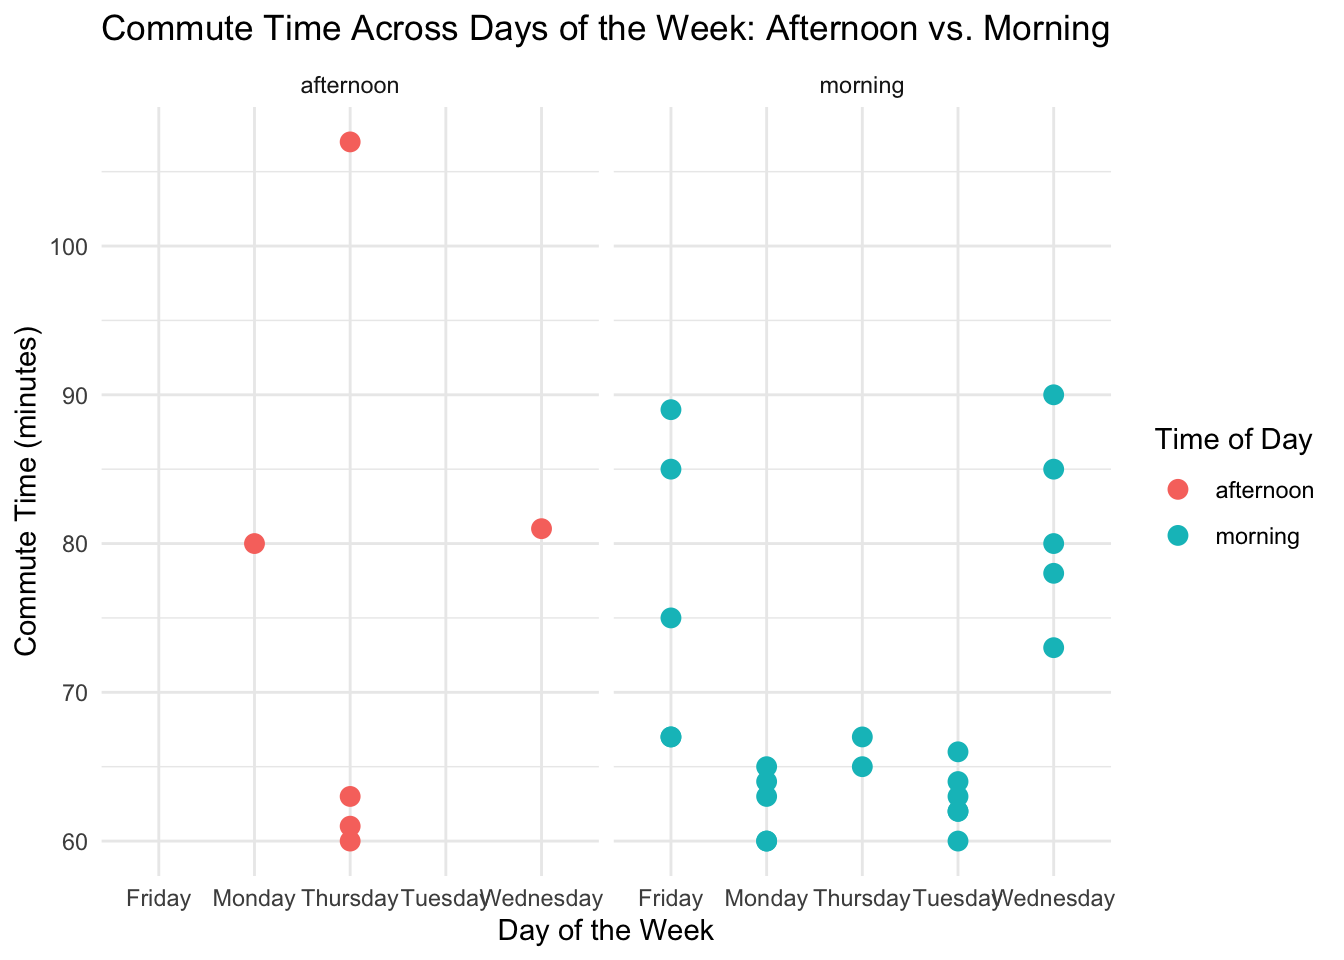
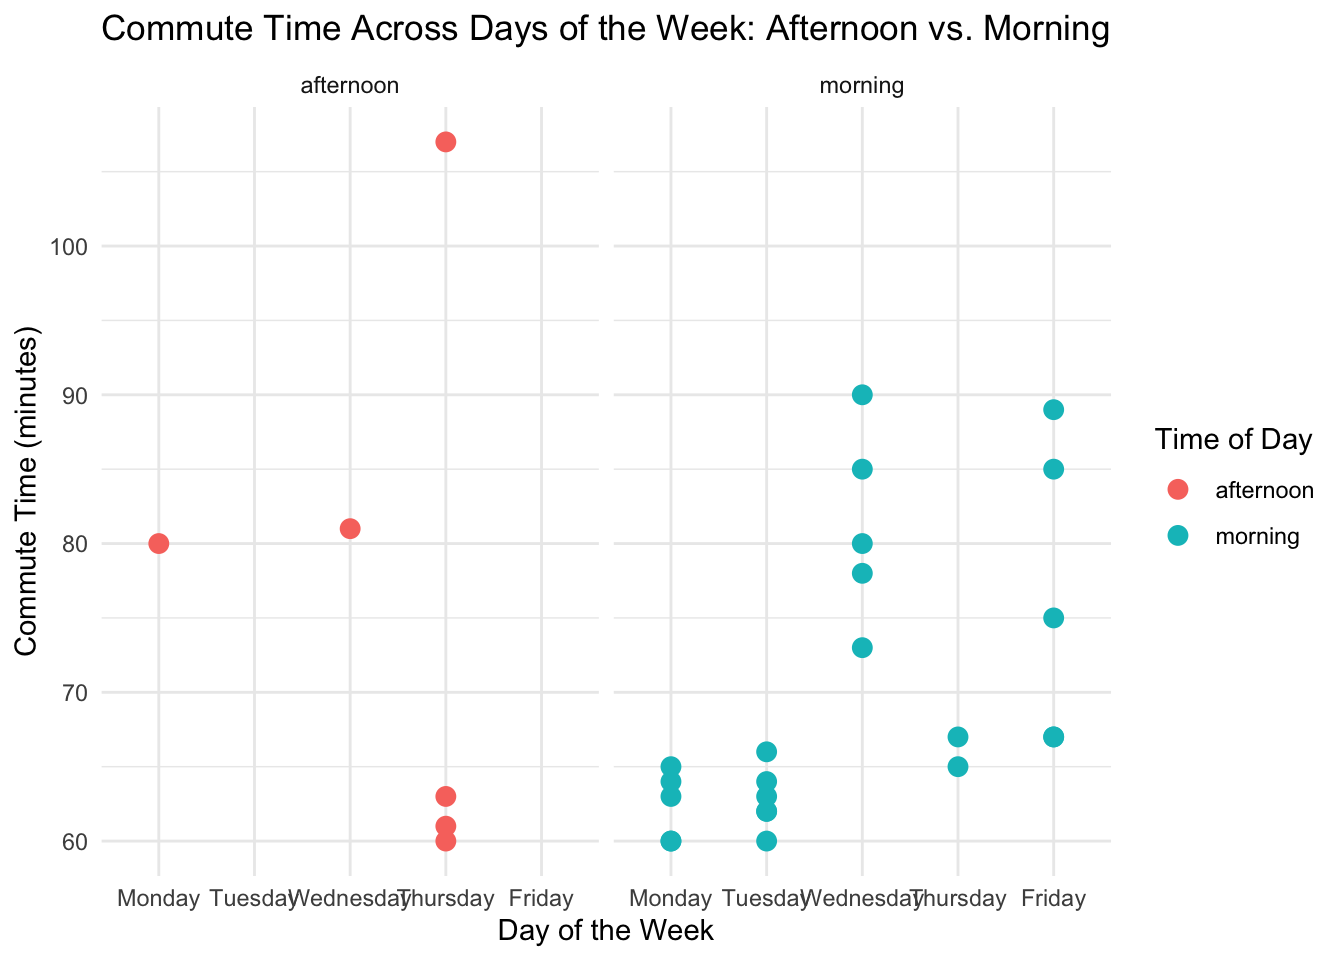
fixed general formatting to include table of contents, fixed figure 1 in Problem 2a, reworded Problem 1f

diff --git a/code/Homework-03.html b/code/Homework-03.html
@@ -105,10 +105,50 @@ window.Quarto = {
 
 </head>
 
-<body class="fullcontent quarto-light">
+<body class="quarto-light">
 
 <div id="quarto-content" class="page-columns page-rows-contents page-layout-article">
-
+<div id="quarto-margin-sidebar" class="sidebar margin-sidebar">
+  <nav id="TOC" role="doc-toc" class="toc-active">
+    <h2 id="toc-title">Table of contents</h2>
+   
+  <ul>
+  <li><a href="#problem-1.-slough-soil-salinity" id="toc-problem-1.-slough-soil-salinity" class="nav-link active" data-scroll-target="#problem-1.-slough-soil-salinity">Problem 1. Slough soil salinity</a>
+  <ul class="collapse">
+  <li><a href="#a.-an-appropriate-test" id="toc-a.-an-appropriate-test" class="nav-link" data-scroll-target="#a.-an-appropriate-test">a. An appropriate test</a></li>
+  <li><a href="#b.-create-a-visualization" id="toc-b.-create-a-visualization" class="nav-link" data-scroll-target="#b.-create-a-visualization">b. Create a visualization</a></li>
+  <li><a href="#c.-check-your-assumptions-and-run-your-test" id="toc-c.-check-your-assumptions-and-run-your-test" class="nav-link" data-scroll-target="#c.-check-your-assumptions-and-run-your-test">c.&nbsp;Check your assumptions and run your test</a>
+  <ul class="collapse">
+  <li><a href="#checking-assumptions" id="toc-checking-assumptions" class="nav-link" data-scroll-target="#checking-assumptions">Checking Assumptions</a></li>
+  <li><a href="#running-test" id="toc-running-test" class="nav-link" data-scroll-target="#running-test">Running Test</a></li>
+  </ul></li>
+  <li><a href="#d.-results-communication" id="toc-d.-results-communication" class="nav-link" data-scroll-target="#d.-results-communication">d.&nbsp;Results communication</a></li>
+  <li><a href="#e.-test-implications" id="toc-e.-test-implications" class="nav-link" data-scroll-target="#e.-test-implications">e. Test implications</a></li>
+  <li><a href="#f.-double-check-your-own-work" id="toc-f.-double-check-your-own-work" class="nav-link" data-scroll-target="#f.-double-check-your-own-work">f.&nbsp;Double check your own work</a></li>
+  </ul></li>
+  <li><a href="#problem-2.-personal-data" id="toc-problem-2.-personal-data" class="nav-link" data-scroll-target="#problem-2.-personal-data">Problem 2. Personal Data</a>
+  <ul class="collapse">
+  <li><a href="#a.-updating-your-visualizations" id="toc-a.-updating-your-visualizations" class="nav-link" data-scroll-target="#a.-updating-your-visualizations">a. Updating your visualizations</a></li>
+  <li><a href="#b.-captions" id="toc-b.-captions" class="nav-link" data-scroll-target="#b.-captions">b. Captions</a></li>
+  </ul></li>
+  <li><a href="#problem-3.-affective-visualization" id="toc-problem-3.-affective-visualization" class="nav-link" data-scroll-target="#problem-3.-affective-visualization">Problem 3. Affective visualization</a>
+  <ul class="collapse">
+  <li><a href="#a.-describe-in-words-what-an-affective-visualization-could-look-like-for-your-personal-data" id="toc-a.-describe-in-words-what-an-affective-visualization-could-look-like-for-your-personal-data" class="nav-link" data-scroll-target="#a.-describe-in-words-what-an-affective-visualization-could-look-like-for-your-personal-data">a. Describe in words what an affective visualization could look like for your personal data</a></li>
+  <li><a href="#b.-create-a-sketch-on-paper-of-your-idea" id="toc-b.-create-a-sketch-on-paper-of-your-idea" class="nav-link" data-scroll-target="#b.-create-a-sketch-on-paper-of-your-idea">b. Create a sketch (on paper) of your idea</a></li>
+  <li><a href="#c.-make-a-draft-of-your-visualization." id="toc-c.-make-a-draft-of-your-visualization." class="nav-link" data-scroll-target="#c.-make-a-draft-of-your-visualization.">c.&nbsp;Make a draft of your visualization.</a></li>
+  <li><a href="#d.-write-an-artist-statement" id="toc-d.-write-an-artist-statement" class="nav-link" data-scroll-target="#d.-write-an-artist-statement">d.&nbsp;Write an artist statement</a></li>
+  <li><a href="#e.-prep-your-materials-to-share-to-class." id="toc-e.-prep-your-materials-to-share-to-class." class="nav-link" data-scroll-target="#e.-prep-your-materials-to-share-to-class.">e. Prep your materials to share to class.</a></li>
+  </ul></li>
+  <li><a href="#problem-4.-statistical-critique" id="toc-problem-4.-statistical-critique" class="nav-link" data-scroll-target="#problem-4.-statistical-critique">Problem 4. Statistical critique</a>
+  <ul class="collapse">
+  <li><a href="#a.-revisit-and-summarize" id="toc-a.-revisit-and-summarize" class="nav-link" data-scroll-target="#a.-revisit-and-summarize">a. Revisit and summarize</a></li>
+  <li><a href="#b.-visual-clarity" id="toc-b.-visual-clarity" class="nav-link" data-scroll-target="#b.-visual-clarity">b. Visual clarity</a></li>
+  <li><a href="#c.-aesthetic-clarity" id="toc-c.-aesthetic-clarity" class="nav-link" data-scroll-target="#c.-aesthetic-clarity">c.&nbsp;Aesthetic clarity</a></li>
+  <li><a href="#d.-recommendations" id="toc-d.-recommendations" class="nav-link" data-scroll-target="#d.-recommendations">d.&nbsp;Recommendations</a></li>
+  </ul></li>
+  </ul>
+</nav>
+</div>
 <main class="content" id="quarto-document-content">
 
 <header id="title-block-header" class="quarto-title-block default">
@@ -295,7 +335,7 @@ sample estimates:
 0.5928854 </code></pre>
 </div>
 </div>
-<p>[I ran a Spearmans Rank correlation test as non-paramtetric rank alternative compared to Pearsons correlation that evaluated the relationsip between pickleweed mass and soil salinity and showed a moderate relationship (Spearman <span class="math inline">\(\rho = 0.59\)</span>, S = 824, p = 0.01, <span class="math inline">\(\alpha = 0.05\)</span>) which was similar to the Pearson correlation results (Pearson’s r = 0.53, t(21) = 2.9, p =0.01, <span class="math inline">\(\alpha = 0.05\)</span>). Both tests would lead to the same decision about the null hypothesis that there is no relationship between both variables and shows the relationship that as pickleweed biomass increases as soil salinity increases. ]</p>
+<p>[I ran a Spearmans Rank correlation test as non-paramtetric rank alternative compared to Pearsons correlation that evaluated the relationsip between pickleweed mass and soil salinity and showed a moderate relationship (Spearman <span class="math inline">\(\rho = 0.59\)</span>, S = 824, p = 0.01, <span class="math inline">\(\alpha = 0.05\)</span>) which was similar to the Pearson correlation results (Pearson’s r = 0.53, t(21) = 2.9, p =0.01, <span class="math inline">\(\alpha = 0.05\)</span>). Both tests would lead to the same decision to reject the null hypothesis and shows the relationship that as pickleweed biomass increases as soil salinity increases. ]</p>
 </section>
 </section>
 <section id="problem-2.-personal-data" class="level1">
@@ -304,18 +344,24 @@ sample estimates:
 <h2 class="anchored" data-anchor-id="a.-updating-your-visualizations">a. Updating your visualizations</h2>
 <div class="cell">
 <div class="code-copy-outer-scaffold"><div class="sourceCode cell-code" id="cb9"><pre class="sourceCode r code-with-copy"><code class="sourceCode r"><span id="cb9-1"><a href="#cb9-1" aria-hidden="true" tabindex="-1"></a><span class="co"># Visualizing Updated commute data visualization</span></span>
-<span id="cb9-2"><a href="#cb9-2" aria-hidden="true" tabindex="-1"></a><span class="fu">ggplot</span>(<span class="at">data =</span> my_data_commute, <span class="co"># calls for commute data frame</span></span>
-<span id="cb9-3"><a href="#cb9-3" aria-hidden="true" tabindex="-1"></a>       <span class="fu">aes</span>(<span class="at">x =</span> day_of_week, <span class="co"># assigns day of week column to x-axis</span></span>
-<span id="cb9-4"><a href="#cb9-4" aria-hidden="true" tabindex="-1"></a>           <span class="at">y =</span> commute_time_minutes, <span class="co"># assigns commute time to y-axis</span></span>
-<span id="cb9-5"><a href="#cb9-5" aria-hidden="true" tabindex="-1"></a>           <span class="at">color =</span> time_of_day)) <span class="sc">+</span> <span class="co"># changes color depending on time of day</span></span>
-<span id="cb9-6"><a href="#cb9-6" aria-hidden="true" tabindex="-1"></a>  <span class="fu">geom_point</span>(<span class="at">size =</span> <span class="dv">3</span>) <span class="sc">+</span> <span class="co"># changes size of data points</span></span>
-<span id="cb9-7"><a href="#cb9-7" aria-hidden="true" tabindex="-1"></a>  <span class="fu">facet_wrap</span>(<span class="sc">~</span> time_of_day) <span class="sc">+</span> <span class="co"># add legend for specific column</span></span>
-<span id="cb9-8"><a href="#cb9-8" aria-hidden="true" tabindex="-1"></a>  <span class="co"># labels for title</span></span>
-<span id="cb9-9"><a href="#cb9-9" aria-hidden="true" tabindex="-1"></a>  <span class="fu">labs</span>(<span class="at">title =</span> <span class="st">"Commute Time Across Days of the Week: Afternoon vs. Morning"</span>,</span>
-<span id="cb9-10"><a href="#cb9-10" aria-hidden="true" tabindex="-1"></a>       <span class="at">x =</span> <span class="st">"Day of the Week"</span>, <span class="co"># labels x-axis</span></span>
-<span id="cb9-11"><a href="#cb9-11" aria-hidden="true" tabindex="-1"></a>       <span class="at">y =</span> <span class="st">"Commute Time (minutes)"</span>, <span class="co"># labels y-axis</span></span>
-<span id="cb9-12"><a href="#cb9-12" aria-hidden="true" tabindex="-1"></a>       <span class="at">color =</span> <span class="st">"Time of Day"</span>) <span class="sc">+</span> <span class="co"># assings legends based on colored points</span></span>
-<span id="cb9-13"><a href="#cb9-13" aria-hidden="true" tabindex="-1"></a>  <span class="fu">theme_minimal</span>() <span class="co"># changes theme </span></span></code></pre></div><button title="Copy to Clipboard" class="code-copy-button"><i class="bi"></i></button></div>
+<span id="cb9-2"><a href="#cb9-2" aria-hidden="true" tabindex="-1"></a>my_data_commute_m <span class="ot">&lt;-</span> my_data_commute <span class="sc">|&gt;</span></span>
+<span id="cb9-3"><a href="#cb9-3" aria-hidden="true" tabindex="-1"></a>  <span class="fu">clean_names</span>() <span class="sc">|&gt;</span> <span class="co"># clean column names</span></span>
+<span id="cb9-4"><a href="#cb9-4" aria-hidden="true" tabindex="-1"></a>  <span class="fu">mutate</span>(<span class="at">day_of_week =</span> <span class="fu">str_trim</span>(day_of_week),</span>
+<span id="cb9-5"><a href="#cb9-5" aria-hidden="true" tabindex="-1"></a>         <span class="at">day_of_week =</span> <span class="fu">factor</span>(day_of_week,</span>
+<span id="cb9-6"><a href="#cb9-6" aria-hidden="true" tabindex="-1"></a>                              <span class="at">levels =</span> <span class="fu">c</span>(<span class="st">"Monday"</span>,<span class="st">"Tuesday"</span>,<span class="st">"Wednesday"</span>,<span class="st">"Thursday"</span>,<span class="st">"Friday"</span>))</span>
+<span id="cb9-7"><a href="#cb9-7" aria-hidden="true" tabindex="-1"></a>                              )</span>
+<span id="cb9-8"><a href="#cb9-8" aria-hidden="true" tabindex="-1"></a><span class="fu">ggplot</span>(<span class="at">data =</span> my_data_commute_m, <span class="co"># calls for commute data frame</span></span>
+<span id="cb9-9"><a href="#cb9-9" aria-hidden="true" tabindex="-1"></a>       <span class="fu">aes</span>(<span class="at">x =</span> day_of_week, <span class="co"># assigns day of week column to x-axis</span></span>
+<span id="cb9-10"><a href="#cb9-10" aria-hidden="true" tabindex="-1"></a>           <span class="at">y =</span> commute_time_minutes, <span class="co"># assigns commute time to y-axis</span></span>
+<span id="cb9-11"><a href="#cb9-11" aria-hidden="true" tabindex="-1"></a>           <span class="at">color =</span> time_of_day)) <span class="sc">+</span> <span class="co"># changes color depending on time of day</span></span>
+<span id="cb9-12"><a href="#cb9-12" aria-hidden="true" tabindex="-1"></a>  <span class="fu">geom_point</span>(<span class="at">size =</span> <span class="dv">3</span>) <span class="sc">+</span> <span class="co"># changes size of data points</span></span>
+<span id="cb9-13"><a href="#cb9-13" aria-hidden="true" tabindex="-1"></a>  <span class="fu">facet_wrap</span>(<span class="sc">~</span> time_of_day) <span class="sc">+</span> <span class="co"># add legend for specific column</span></span>
+<span id="cb9-14"><a href="#cb9-14" aria-hidden="true" tabindex="-1"></a>  <span class="co"># labels for title</span></span>
+<span id="cb9-15"><a href="#cb9-15" aria-hidden="true" tabindex="-1"></a>  <span class="fu">labs</span>(<span class="at">title =</span> <span class="st">"Commute Time Across Days of the Week: Afternoon vs. Morning"</span>,</span>
+<span id="cb9-16"><a href="#cb9-16" aria-hidden="true" tabindex="-1"></a>       <span class="at">x =</span> <span class="st">"Day of the Week"</span>, <span class="co"># labels x-axis</span></span>
+<span id="cb9-17"><a href="#cb9-17" aria-hidden="true" tabindex="-1"></a>       <span class="at">y =</span> <span class="st">"Commute Time (minutes)"</span>, <span class="co"># labels y-axis</span></span>
+<span id="cb9-18"><a href="#cb9-18" aria-hidden="true" tabindex="-1"></a>       <span class="at">color =</span> <span class="st">"Time of Day"</span>) <span class="sc">+</span> <span class="co"># assings legends based on colored points</span></span>
+<span id="cb9-19"><a href="#cb9-19" aria-hidden="true" tabindex="-1"></a>  <span class="fu">theme_minimal</span>() <span class="co"># changes theme </span></span></code></pre></div><button title="Copy to Clipboard" class="code-copy-button"><i class="bi"></i></button></div>
 <div class="cell-output-display">
 <div>
 <figure class="figure">
